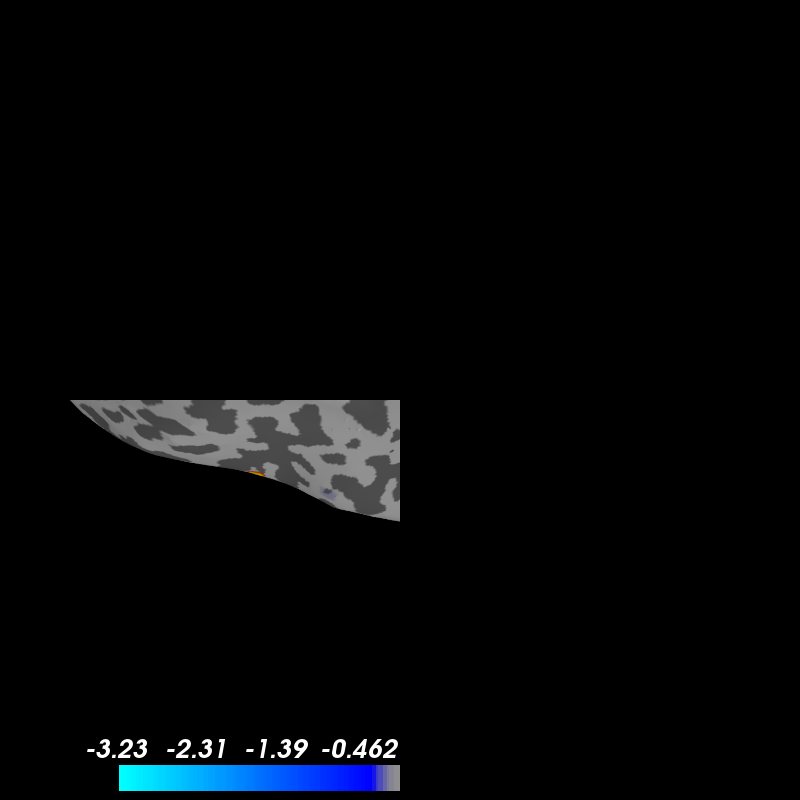
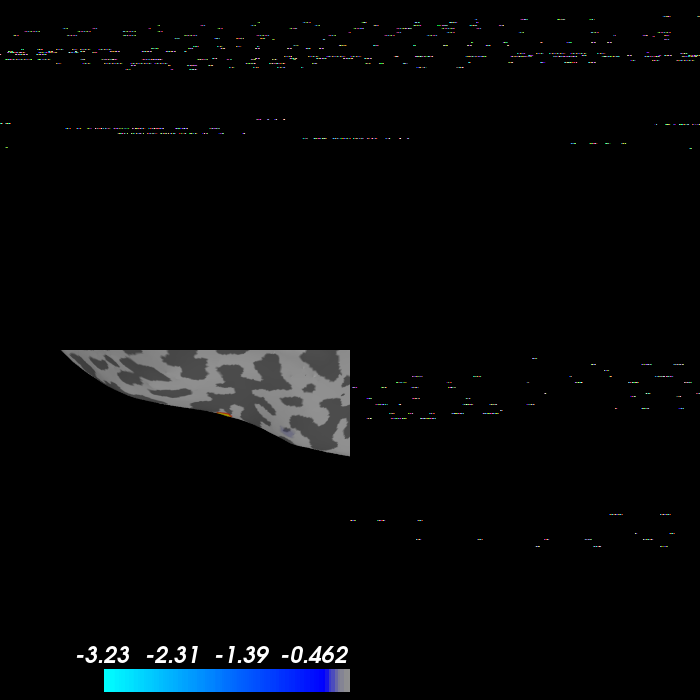
rebuilt docs

diff --git a/auto_examples/plot_group_lasso.html b/auto_examples/plot_group_lasso.html
@@ -408,7 +408,7 @@ Computing data rank from covariance with rank=None
         <span class="n">surfer_kwargs</span> <span class="o">=</span> <span class="nb">dict</span><span class="p">(</span>
             <span class="n">clim</span><span class="o">=</span><span class="nb">dict</span><span class="p">(</span><span class="n">kind</span><span class="o">=</span><span class="s1">&#39;value&#39;</span><span class="p">,</span> <span class="n">pos_lims</span><span class="o">=</span><span class="p">[</span><span class="mf">0.</span><span class="p">,</span> <span class="mf">0.1</span> <span class="o">*</span> <span class="n">m</span><span class="p">,</span> <span class="n">m</span><span class="p">]),</span>
             <span class="n">hemi</span><span class="o">=</span><span class="s1">&#39;lh&#39;</span><span class="p">,</span> <span class="n">subjects_dir</span><span class="o">=</span><span class="n">subjects_dir</span><span class="p">,</span>
-            <span class="n">initial_time</span><span class="o">=</span><span class="n">t</span><span class="p">,</span> <span class="n">time_unit</span><span class="o">=</span><span class="s1">&#39;s&#39;</span><span class="p">,</span> <span class="n">size</span><span class="o">=</span><span class="p">(</span><span class="mi">400</span><span class="p">,</span> <span class="mi">400</span><span class="p">),</span>
+            <span class="n">initial_time</span><span class="o">=</span><span class="n">t</span><span class="p">,</span> <span class="n">time_unit</span><span class="o">=</span><span class="s1">&#39;s&#39;</span><span class="p">,</span> <span class="n">size</span><span class="o">=</span><span class="p">(</span><span class="mi">350</span><span class="p">,</span> <span class="mi">350</span><span class="p">),</span>
             <span class="n">smoothing_steps</span><span class="o">=</span><span class="mi">5</span><span class="p">)</span>
         <span class="n">brain</span> <span class="o">=</span> <span class="n">stc</span><span class="o">.</span><span class="n">plot</span><span class="p">(</span><span class="o">**</span><span class="n">surfer_kwargs</span><span class="p">,</span> <span class="n">views</span><span class="o">=</span><span class="n">view</span><span class="p">)</span>
         <span class="n">brain</span><span class="o">.</span><span class="n">add_text</span><span class="p">(</span><span class="mf">0.1</span><span class="p">,</span> <span class="mf">0.9</span><span class="p">,</span> <span class="n">subject</span><span class="p">,</span> <span class="s2">&quot;title&quot;</span><span class="p">)</span>
@@ -424,7 +424,7 @@ Computing data rank from covariance with rank=None
 <li><img alt="../_images/sphx_glr_plot_group_lasso_005.png" class="sphx-glr-multi-img" src="../_images/sphx_glr_plot_group_lasso_005.png" />
 </li>
 </ul>
-<p class="sphx-glr-timing"><strong>Total running time of the script:</strong> ( 3 minutes  9.919 seconds)</p>
+<p class="sphx-glr-timing"><strong>Total running time of the script:</strong> ( 2 minutes  50.407 seconds)</p>
 <div class="sphx-glr-footer class sphx-glr-footer-example docutils container" id="sphx-glr-download-auto-examples-plot-group-lasso-py">
 <div class="sphx-glr-download docutils container">
 <p><a class="reference download internal" download="" href="../_downloads/e66cf913a6355c593439c84a85c97b44/plot_group_lasso.py"><code class="xref download docutils literal notranslate"><span class="pre">Download</span> <span class="pre">Python</span> <span class="pre">source</span> <span class="pre">code:</span> <span class="pre">plot_group_lasso.py</span></code></a></p>

diff --git a/auto_examples/sg_execution_times.html b/auto_examples/sg_execution_times.html
@@ -113,9 +113,9 @@
       
   <div class="section" id="computation-times">
 <span id="sphx-glr-auto-examples-sg-execution-times"></span><h1>Computation times<a class="headerlink" href="#computation-times" title="Permalink to this headline">¶</a></h1>
-<p><strong>03:09.919</strong> total execution time for <strong>auto_examples</strong> files:</p>
+<p><strong>02:50.407</strong> total execution time for <strong>auto_examples</strong> files:</p>
 <ul class="simple">
-<li><p><strong>03:09.919</strong>: <a class="reference internal" href="plot_group_lasso.html#sphx-glr-auto-examples-plot-group-lasso-py"><span class="std std-ref">Multi-subject joint source localization with multi-task models</span></a> (<code class="docutils literal notranslate"><span class="pre">plot_group_lasso.py</span></code>)</p></li>
+<li><p><strong>02:50.407</strong>: <a class="reference internal" href="plot_group_lasso.html#sphx-glr-auto-examples-plot-group-lasso-py"><span class="std std-ref">Multi-subject joint source localization with multi-task models</span></a> (<code class="docutils literal notranslate"><span class="pre">plot_group_lasso.py</span></code>)</p></li>
 </ul>
 </div>
 

diff --git a/_downloads/e66cf913a6355c593439c84a85c97b44/plot_group_lasso.py b/_downloads/e66cf913a6355c593439c84a85c97b44/plot_group_lasso.py
@@ -136,7 +136,7 @@ for view in ["lateral", "dorsal"]:
         surfer_kwargs = dict(
             clim=dict(kind='value', pos_lims=[0., 0.1 * m, m]),
             hemi='lh', subjects_dir=subjects_dir,
-            initial_time=t, time_unit='s', size=(400, 400),
+            initial_time=t, time_unit='s', size=(350, 350),
             smoothing_steps=5)
         brain = stc.plot(**surfer_kwargs, views=view)
         brain.add_text(0.1, 0.9, subject, "title")
